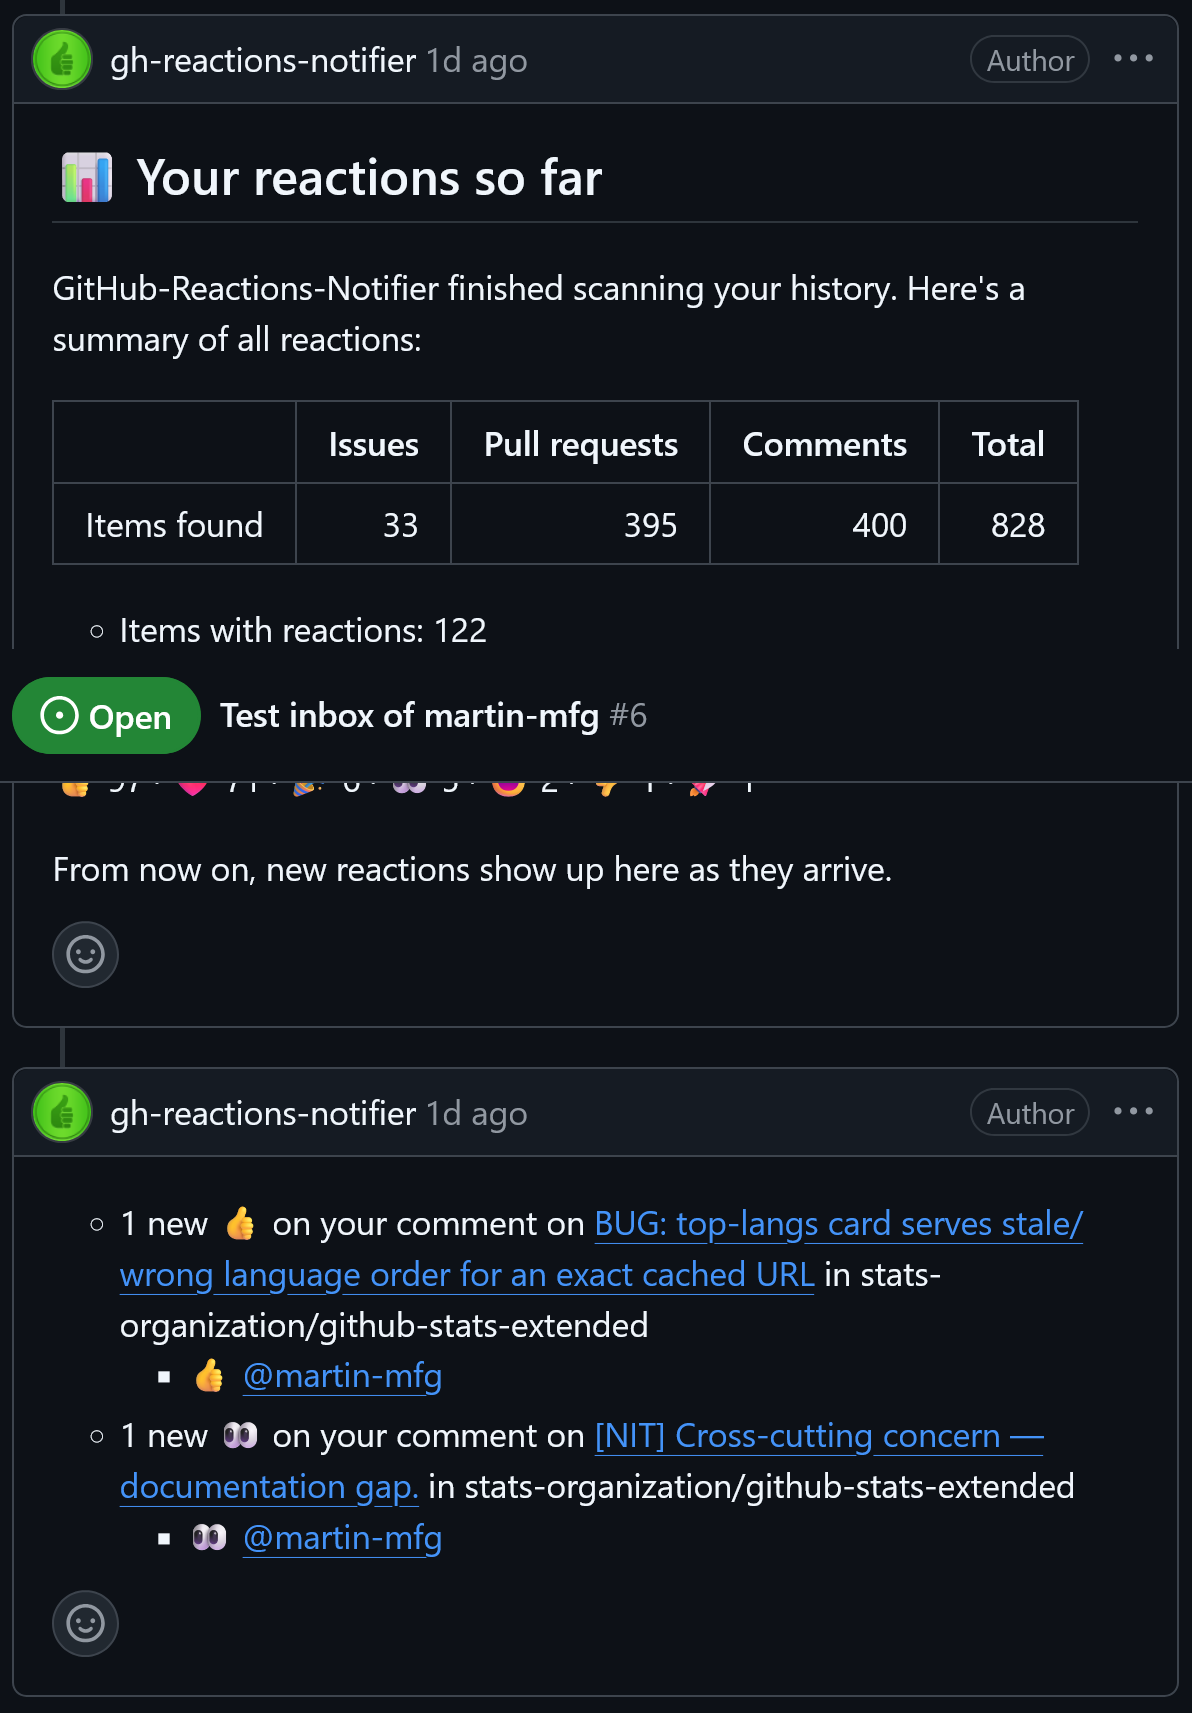
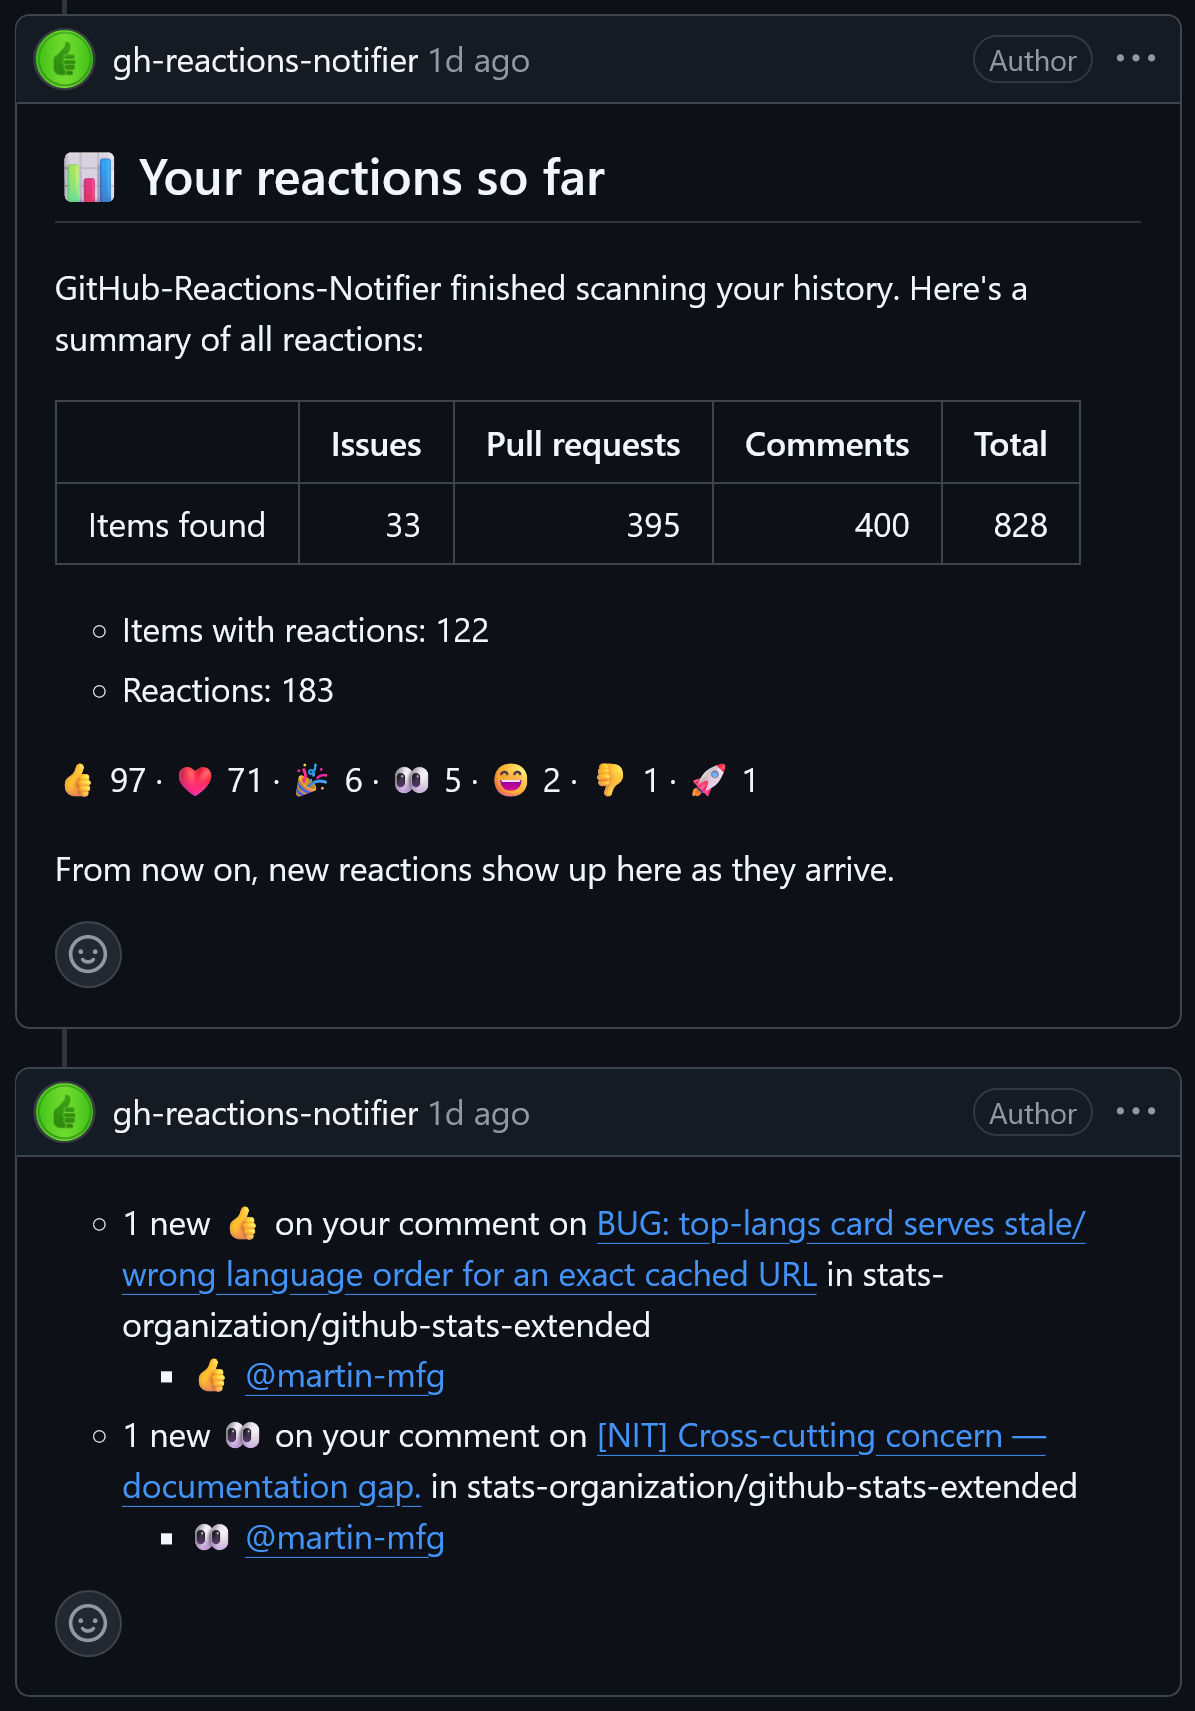
refine docs

diff --git a/apps/frontend/src/components/Home.tsx b/apps/frontend/src/components/Home.tsx
@@ -1,5 +1,8 @@
 import type { ReactNode } from "react";
 
+import inboxDark from "../../../../docs/inbox-dark.png";
+import inboxLight from "../../../../docs/inbox-light.png";
+
 interface HomeProps {
   /** Shown at the top of the grey box, above the buttons: the status message. */
   children?: ReactNode;
@@ -7,52 +10,102 @@ interface HomeProps {
 
 export function Home({ children }: HomeProps) {
   return (
-    <section>
-      <p>
-        Get notified when someone reacts to your GitHub issues, pull requests
-        and comments.
-      </p>
-      <p>
-        Signing in asks GitHub for no permissions beyond your public profile.
-        GitHub-Reactions-Notifier then opens a <strong>public</strong> issue
-        that mentions you, and posts there as comments, so GitHub notifies you.
-      </p>
-      <p>
-        <a href="https://github.com/martin-mfg/github-reactions-notifier#readme">
-          Learn more
+    <section className="home-columns">
+      <div className="home-main">
+        <p>
+          Get a GitHub notification for new reactions to your issues, PRs or
+          comments; and a summary of all past ones.
+        </p>
+        <p>
+          GitHub notifies you about comments, mentions and reviews, but never
+          about reactions. When someone adds 👍, ❤ or 🎉 to your issue, you
+          only find out by accident. GitHub Reactions Notifier fills this gap.
+          Sign up once, and you get a summary of all reactions you've received
+          so far, plus a GitHub notification for every new one.
+        </p>
+        <p>
+          Signing in asks GitHub for no permissions beyond your public profile.
+          GitHub-Reactions-Notifier then opens a public issue that mentions you,
+          and posts updates in there, so GitHub notifies you.
+        </p>
+        <p>
+          <a href="https://github.com/martin-mfg/github-reactions-notifier#readme">
+            Learn more
+          </a>
+        </p>
+        <div className="home-box">
+          {children}
+          <form className="home-option" method="get" action="api/login">
+            <button className="home-button-primary" type="submit">
+              Get notified about reactions
+            </button>
+            <p>
+              A summary of your existing reactions, then a notification for
+              every new one.
+            </p>
+          </form>
+          <form className="home-option" method="get" action="api/login">
+            <input type="hidden" name="mode" value="summary" />
+            <button className="home-button-secondary" type="submit">
+              Just send me a one-time summary
+            </button>
+            <p>
+              A summary of your existing reactions, nothing after that. You can
+              turn notifications on later.
+            </p>
+          </form>
+          <form
+            className="home-option"
+            method="post"
+            action="api/delete-account"
+          >
+            <button className="home-button-danger" type="submit">
+              Delete my account
+            </button>
+            <p>
+              Deleting your account removes all data about you and revokes this
+              app&apos;s access. GitHub asks you to confirm who you are first.
+              Your inbox issue stays.
+            </p>
+          </form>
+        </div>
+      </div>
+      <div className="home-aside">
+        {/*
+          Both are rendered; Starlight's classes show the one matching its theme toggle, not just the OS setting.
+          The classes sit on the links, so the hidden one can't be reached with the keyboard either.
+          `loading="lazy"` keeps browsers from downloading the hidden one.
+        */}
+        <a
+          className="light:sl-hidden"
+          href={inboxDark.src}
+          target="_blank"
+          rel="noopener noreferrer"
+        >
+          <img
+            className="home-screenshot"
+            loading="lazy"
+            src={inboxDark.src}
+            width={inboxDark.width}
+            height={inboxDark.height}
+            alt="Example inbox comment"
+          />
         </a>
-      </p>
-      <div className="home-box">
-        {children}
-        <form className="home-option" method="get" action="api/login">
-          <button className="home-button-primary" type="submit">
-            Get notified about reactions
-          </button>
-          <p>
-            A summary of your existing reactions, then a notification for every
-            new one.
-          </p>
-        </form>
-        <form className="home-option" method="get" action="api/login">
-          <input type="hidden" name="mode" value="summary" />
-          <button className="home-button-secondary" type="submit">
-            Just send me a one-time summary
-          </button>
-          <p>
-            A summary of your existing reactions, nothing after that. You can
-            turn notifications on later.
-          </p>
-        </form>
-        <form className="home-option" method="post" action="api/delete-account">
-          <button className="home-button-danger" type="submit">
-            Delete my account
-          </button>
-          <p>
-            Deleting your account removes all data about you and revokes this
-            app&apos;s access. GitHub asks you to confirm who you are first.
-            Your inbox issue stays.
-          </p>
-        </form>
+        <a
+          className="dark:sl-hidden"
+          href={inboxLight.src}
+          target="_blank"
+          rel="noopener noreferrer"
+        >
+          <img
+            className="home-screenshot"
+            loading="lazy"
+            src={inboxLight.src}
+            width={inboxLight.width}
+            height={inboxLight.height}
+            alt="Example inbox comment"
+          />
+        </a>
       </div>
     </section>
   );

diff --git a/apps/frontend/src/styles/home.css b/apps/frontend/src/styles/home.css
@@ -1,5 +1,34 @@
 /* Generated by Claude Code (claude-opus-5-5) on 2026-11-13 00:00 */
 
+/*
+ * Two columns: the text and the grey box on the left, the example inbox comment on the right,
+ * so the tall screenshot spans both. The screenshot wraps below on narrow screens.
+ */
+.home-columns {
+  display: flex;
+  flex-wrap: wrap;
+  align-items: flex-start;
+  gap: 1rem 4rem;
+}
+.home-main {
+  flex: 1 1 20rem;
+}
+/*
+ * Starlight puts a top margin on every element after a sibling; `gap` does the spacing here.
+ * Never set `display` on the links in here: unlayered CSS beats Starlight's layered
+ * `light:sl-hidden` / `dark:sl-hidden`, so both screenshots would show.
+ */
+.home-aside {
+  flex: 0 1 25rem;
+  margin-top: 0;
+}
+
+/* The example inbox comment: scales down on narrow screens, keeping its aspect ratio. */
+.home-screenshot {
+  max-width: 100%;
+  height: auto;
+}
+
 /* Groups the sign-in and account actions on the home page in a grey box. */
 .home-box {
   padding: 2rem;

diff --git a/apps/frontend/src/styles/prototype.css b/apps/frontend/src/styles/prototype.css
@@ -20,19 +20,3 @@
   color: inherit;
   font-weight: 600;
 }
-
-/* A slightly crooked "alpha" sticker after the site title. */
-.site-title::after {
-  content: "alpha";
-  margin-inline-start: 0.5rem;
-  padding: 0.1rem 0.45rem;
-  border: 1px dashed #1f1f1f;
-  border-radius: 0.25rem;
-  background-color: #f5c400;
-  color: #1f1f1f;
-  font-size: var(--sl-text-xs);
-  font-weight: 700;
-  letter-spacing: 0.05em;
-  text-transform: uppercase;
-  transform: rotate(-4deg);
-}

diff --git a/README.md b/README.md
@@ -1,19 +1,28 @@
 <div align="center">
   <img src="docs/icon.png" alt="GitHub Reactions Notifier Logo" width="96">
   <h1>GitHub Reactions Notifier</h1>
-  <p>Get a GitHub notification when someone reacts to your issues, PRs or comments.</p>
+  <p>Get a GitHub notification for new reactions to your issues, PRs or comments; and a summary of all past ones.</p>
+  <picture>
+    <source
+      srcset="docs/inbox-dark.png"
+      media="(prefers-color-scheme: dark)"
+    />
+    <!-- light mode -->
+    <img
+      src="docs/inbox-light.png"
+      width="400"
+      alt="Example inbox comment"
+    />
+  </picture>
 </div>
 
 > [!WARNING]
-> **This is a prototype (alpha).** It may have bugs, lose data, or be shut down at any time.
+> **This is a prototype (alpha).** It may have bugs or be shut down at any time.
 > I'm releasing it early to find out whether people want it.
 > [Your feedback](#feedback) decides whether it gets developed further.
 
 GitHub notifies you about comments, mentions and reviews, but never about reactions.
-When someone adds 👍, ❤ or 🎉 to your issue, you only find out by accident.
-
-GitHub Reactions Notifier fills this gap. Sign up once, and you get a GitHub notification
-whenever someone reacts to your issues, pull requests or comments.
+When someone adds 👍, ❤ or 🎉 to your issue, you only find out by accident. GitHub Reactions Notifier fills this gap. Sign up once, and you get a summary of all reactions you've received so far, plus a GitHub notification for every new one.
 
 **[Sign up here](https://github-reactions-notifier.vercel.app/)**
 
@@ -26,13 +35,8 @@ whenever someone reacts to your issues, pull requests or comments.
    has received so far: how many items it found, how many reactions they have, and the total
    per emoji.
 4. **New reactions are posted as comments** in your inbox, usually within a few minutes.
-   Several reactions are bundled into one comment, for example:
-
-   > - 2 new 👍 and 1 new 🎉 on your issue [Add dark mode](#how-it-works) in octo-org/octo-app
-   >   - 👍 @&#8203;alice and @&#8203;bob
-   >   - 🎉 @&#8203;carol
-
-The people named in your inbox are **not** mentioned or notified. Only you are.
+   Several reactions are bundled into one comment.
+   The people named in your inbox are **not** mentioned or notified. Only you are.
 
 ## What's included, and what isn't yet
 
@@ -57,8 +61,8 @@ Missing something you need? [Tell me](#feedback).
 - **Reactions from before you signed in are never notified one by one.** They only count
   towards the summary.
 - **Your own reactions to your posts are reported too**. This is especially useful for testing.
-- **The first scan takes time.** For most accounts it takes minutes to hours; for very active
-  accounts it can take days. New reactions are reported while it runs, so you may get
+- **The first scan takes time.** For most accounts it takes a few minutes; for very active
+  accounts it can take longer. New reactions are reported while it runs, so you may get
   notifications before the summary arrives.
 - **Older content is checked less often.** A reaction on something you posted yesterday shows
   up within minutes. One on something from years ago can take longer. Once an item gets a
